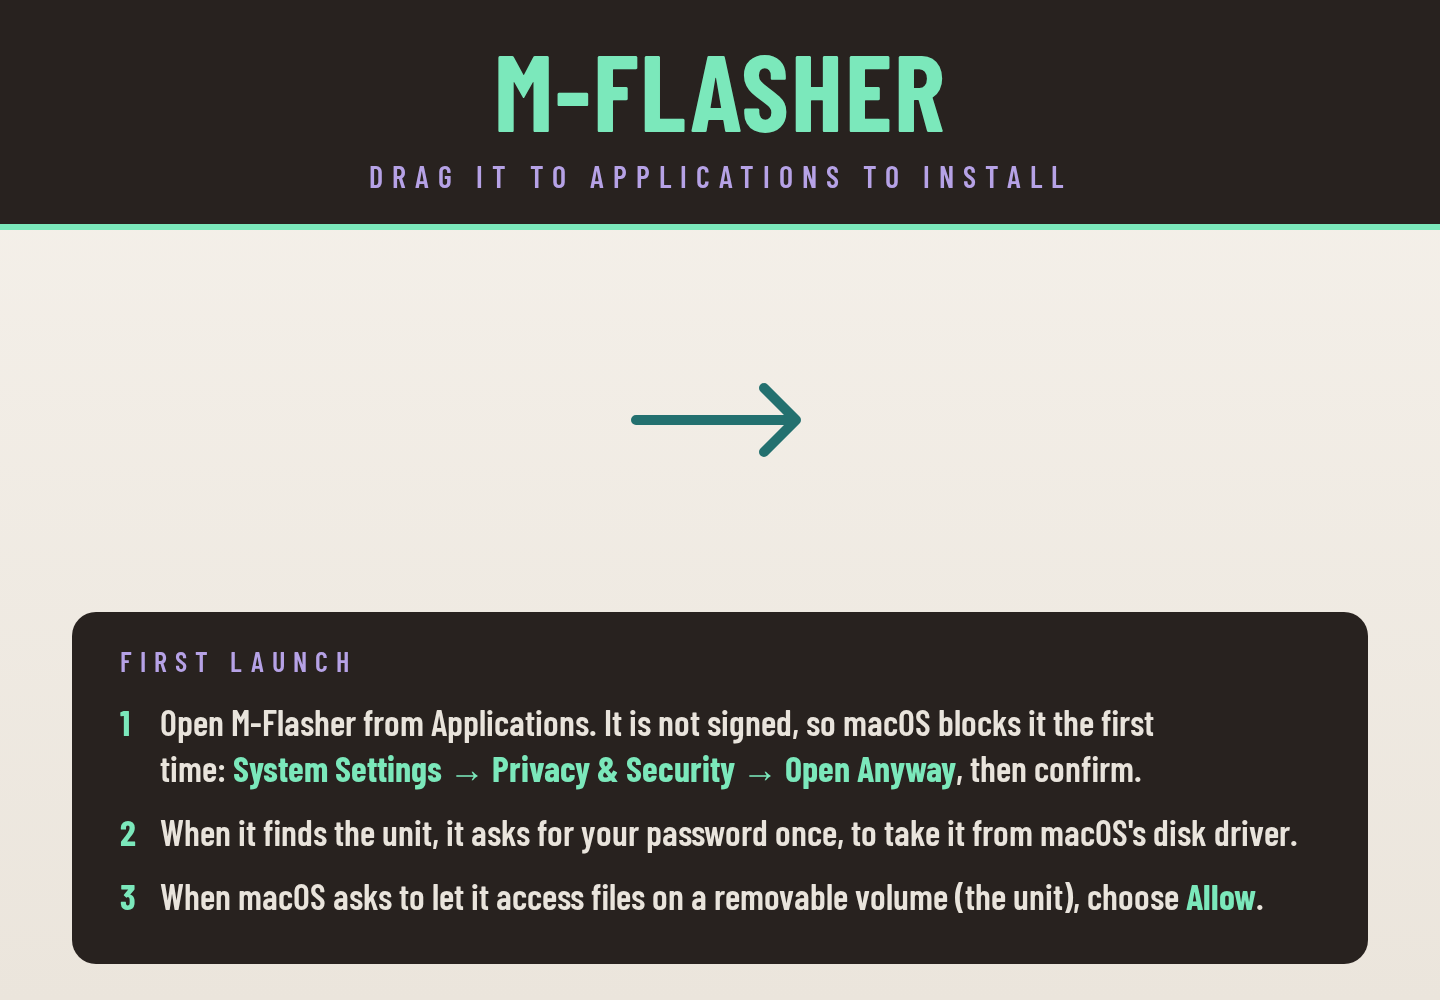
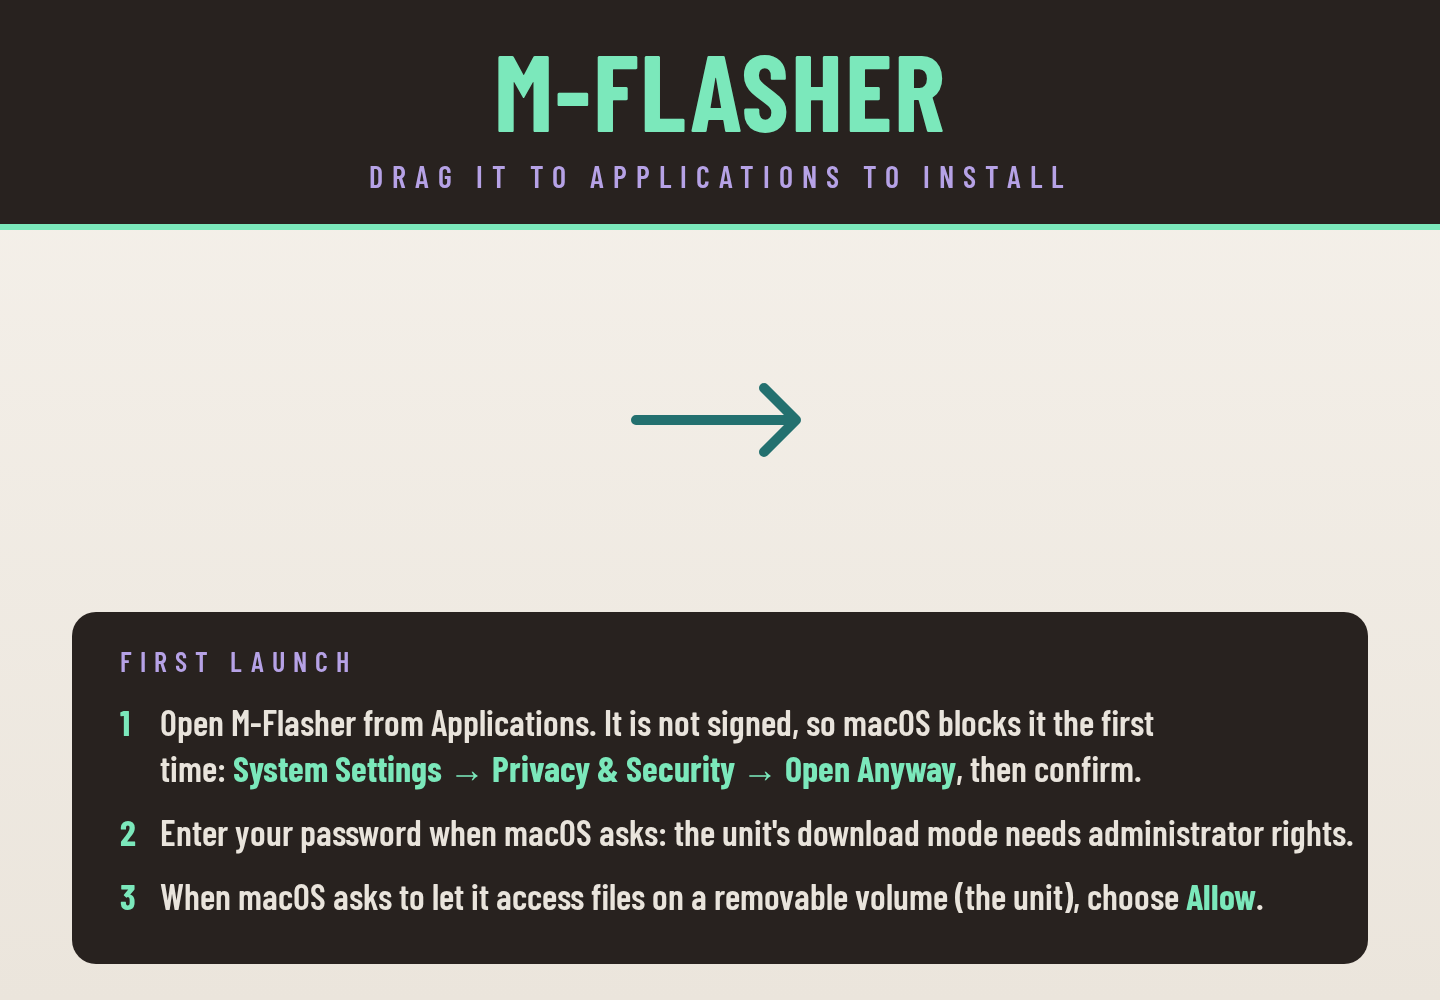
macOS: the window starts as root through the system's authorization dialog
Taking the unit from macOS's disk driver leaves it to root only, so the
user process cannot claim it after a root step: the window runs as root.
It starts again through AuthorizationExecuteWithPrivileges, which shows the
system's password dialog (no password box of our own, no sudo) and runs the
root step as a child of the app. That keeps the root window M-Flasher's, so
macOS asks to let it access the removable volume. Started through
osascript's administrator privileges, or "responsible for itself", it was
refused without asking.

Changed region(s): [[0.0938, 0.806, 0.9375, 0.868]]

diff --git a/src/macos.rs b/src/macos.rs
@@ -1,0 +1,143 @@
+//! macOS: the window runs as root. Only root may take the unit from macOS's
+//! disk driver, and after that only root may open it.
+//!
+//! Opened as a normal app, it asks for the password in the system's
+//! authorization dialog and runs one root step, which starts the window again
+//! as root. macOS lets that window use the unit only when it descends from a
+//! process of the user's (M-Flasher here, Terminal under sudo): then it asks the
+//! user, once, to let M-Flasher access the removable volume (the unit). A root
+//! process started any other way (osascript's administrator privileges, a
+//! launchd job, or one "responsible for itself") is refused without asking.
+//! AuthorizationExecuteWithPrivileges runs the root step as a child of this
+//! process; it is deprecated, but nothing newer does that.
+
+use std::ffi::{CString, c_char, c_void};
+use std::os::unix::ffi::OsStrExt;
+
+/// The root step: `M-Flasher --window-as-root UID GID USER HOME`.
+pub const WINDOW_AS_ROOT: &str = "--window-as-root";
+
+/// Not root: run the root step through the authorization dialog. True: this
+/// process is done (also when the dialog was cancelled).
+pub fn relaunch_as_root() -> bool {
+    // SAFETY: plain libc calls without arguments
+    let (euid, uid, gid) = unsafe { (libc::geteuid(), libc::getuid(), libc::getgid()) };
+    if euid == 0 {
+        return false;
+    }
+    let Ok(exe) = std::env::current_exe() else { return false };
+    let env = |k: &str| std::env::var(k).unwrap_or_default();
+    let args: Vec<CString> = [WINDOW_AS_ROOT.to_string(), uid.to_string(), gid.to_string(), env("USER"), env("HOME")]
+        .into_iter()
+        .filter_map(|a| CString::new(a).ok())
+        .collect();
+    let Ok(path) = CString::new(exe.as_os_str().as_bytes()) else { return false };
+    let mut argv: Vec<*const c_char> = args.iter().map(|a| a.as_ptr()).collect();
+    argv.push(std::ptr::null());
+    let prompt = c"M-Flasher needs administrator rights to reach the unit's USB download mode.";
+    // SAFETY: Security framework calls with initialised items; every pointer
+    // outlives the call it is passed to.
+    unsafe {
+        let mut auth = std::ptr::null_mut();
+        if AuthorizationCreate(std::ptr::null(), std::ptr::null(), 0, &mut auth) != 0 {
+            return true;
+        }
+        let mut right = AuthorizationItem {
+            name: c"system.privilege.admin".as_ptr(),
+            value_length: 0,
+            value: std::ptr::null_mut(),
+            flags: 0,
+        };
+        let rights = AuthorizationItemSet { count: 1, items: &mut right };
+        let mut prompt_item = AuthorizationItem {
+            name: c"prompt".as_ptr(),
+            value_length: prompt.to_bytes().len(),
+            value: prompt.as_ptr() as *mut c_void,
+            flags: 0,
+        };
+        let environment = AuthorizationItemSet { count: 1, items: &mut prompt_item };
+        // interaction allowed, extend rights, preauthorize
+        let flags = 1 | 2 | 16;
+        if AuthorizationCopyRights(auth, &rights, &environment, flags, std::ptr::null_mut()) == 0 {
+            let mut pipe: *mut libc::FILE = std::ptr::null_mut();
+            if AuthorizationExecuteWithPrivileges(auth, path.as_ptr(), 0, argv.as_ptr(), &mut pipe) == 0
+                && !pipe.is_null()
+            {
+                // the root step ends as soon as the window has started
+                let mut buf = [0u8; 256];
+                while libc::fread(buf.as_mut_ptr() as *mut c_void, 1, buf.len(), pipe) > 0 {}
+                libc::fclose(pipe);
+            }
+        }
+        AuthorizationFree(auth, 0);
+    }
+    true
+}
+
+#[repr(C)]
+struct AuthorizationItem {
+    name: *const c_char,
+    value_length: usize,
+    value: *mut c_void,
+    flags: u32,
+}
+
+#[repr(C)]
+struct AuthorizationItemSet {
+    count: u32,
+    items: *mut AuthorizationItem,
+}
+
+#[link(name = "Security", kind = "framework")]
+unsafe extern "C" {
+    fn AuthorizationCreate(rights: *const AuthorizationItemSet, environment: *const AuthorizationItemSet,
+                           flags: u32, authorization: *mut *mut c_void) -> i32;
+    fn AuthorizationCopyRights(authorization: *mut c_void, rights: *const AuthorizationItemSet,
+                               environment: *const AuthorizationItemSet, flags: u32,
+                               authorized: *mut *mut AuthorizationItemSet) -> i32;
+    fn AuthorizationExecuteWithPrivileges(authorization: *mut c_void, path: *const c_char, options: u32,
+                                          arguments: *const *const c_char, pipe: *mut *mut libc::FILE) -> i32;
+    fn AuthorizationFree(authorization: *mut c_void, flags: u32) -> i32;
+}
+
+/// As root: start the window (this executable, no arguments) as root, in its
+/// own session, with the user's home and
+/// SUDO_UID/GID/USER (so the files it creates belong to the user); returns at
+/// once. The exit code for the root step.
+pub fn start_window(args: &[String]) -> i32 {
+    let [uid, gid, user, home] = args else { return 2 };
+    let Ok(exe) = std::env::current_exe() else { return 1 };
+    let ours = ["HOME", "USER", "SUDO_UID", "SUDO_GID", "SUDO_USER"];
+    let mut env: Vec<CString> = std::env::vars()
+        .filter(|(k, _)| !ours.contains(&k.as_str()))
+        .filter_map(|(k, v)| CString::new(format!("{k}={v}")).ok())
+        .collect();
+    for (k, v) in ours.iter().zip([home, user, uid, gid, user]) {
+        env.extend(CString::new(format!("{k}={v}")));
+    }
+    let Ok(path) = CString::new(exe.as_os_str().as_bytes()) else { return 1 };
+    let argv = [path.as_ptr() as *mut c_char, std::ptr::null_mut()];
+    let mut envp: Vec<*mut c_char> = env.iter().map(|e| e.as_ptr() as *mut c_char).collect();
+    envp.push(std::ptr::null_mut());
+    // SAFETY: the attributes and file actions are initialised before use and
+    // destroyed after; every pointer handed to posix_spawn outlives the call.
+    unsafe {
+        let mut attr: libc::posix_spawnattr_t = std::ptr::null_mut();
+        libc::posix_spawnattr_init(&mut attr);
+        libc::posix_spawnattr_setflags(&mut attr, POSIX_SPAWN_SETSID);
+        let mut files: libc::posix_spawn_file_actions_t = std::ptr::null_mut();
+        libc::posix_spawn_file_actions_init(&mut files);
+        for fd in 0..3 {
+            let mode = if fd == 0 { libc::O_RDONLY } else { libc::O_WRONLY };
+            libc::posix_spawn_file_actions_addopen(&mut files, fd, c"/dev/null".as_ptr(), mode, 0);
+        }
+        let mut pid = 0;
+        let r = libc::posix_spawn(&mut pid, path.as_ptr(), &files, &attr, argv.as_ptr(), envp.as_ptr());
+        libc::posix_spawn_file_actions_destroy(&mut files);
+        libc::posix_spawnattr_destroy(&mut attr);
+        if r == 0 { 0 } else { 1 }
+    }
+}
+
+/// posix_spawn: start the child in a new session (<spawn.h>).
+const POSIX_SPAWN_SETSID: libc::c_short = 0x0400;

diff --git a/src/usb.rs b/src/usb.rs
@@ -69,56 +69,8 @@ fn find(path: &str) -> Result<(rusb::Device<GlobalContext>, u8, u8, u8), ScsiErr
     Err(ScsiError::Failed(format!("{path}: no USB mass-storage interface")))
 }
 
-/// macOS, as root: take the unit from the disk driver and leave it without
-/// one (until it is unplugged), for a normal process to claim. The app runs
-/// this through the system's authorization dialog (`--take-unit PATH`).
-#[cfg(target_os = "macos")]
-pub fn take_from_disk_driver(path: &str) -> Result<(), ScsiError> {
-    let (dev, iface, _, _) = find(path)?;
-    let handle = dev.open().map_err(|e| failed("cannot open the unit", e))?;
-    handle.detach_kernel_driver(iface).map_err(|e| match e {
-        rusb::Error::Access => needs_root(e),
-        e => failed("cannot take the unit from the system's USB disk driver", e),
-    })
-}
-
-/// macOS, not root: take_from_disk_driver as root, after the system's
-/// authorization dialog (password or Touch ID).
-#[cfg(target_os = "macos")]
-fn take_with_authorization(path: &str) -> Result<(), ScsiError> {
-    let exe = std::env::current_exe().map_err(|e| ScsiError::Failed(e.to_string()))?;
-    let sh = |s: &str| format!("'{}'", s.replace('\'', "'\\''"));
-    let cmd = format!("{} --take-unit {}", sh(&exe.to_string_lossy()), sh(path));
-    let script = format!(
-        "do shell script \"{}\" with prompt \"M-Flasher needs to take the unit from macOS's disk driver.\" \
-         with administrator privileges",
-        cmd.replace('\\', "\\\\").replace('"', "\\\"")
-    );
-    let ok = std::process::Command::new("osascript").args(["-e", &script]).status().is_ok_and(|s| s.success());
-    if ok {
-        Ok(())
-    } else {
-        Err(ScsiError::NeedsAdmin(
-            "macOS's disk driver holds the unit: M-Flasher needs an administrator's permission to take it".into(),
-        ))
-    }
-}
-
 impl Device {
     pub fn open(path: &str) -> Result<Device, ScsiError> {
-        match Self::claim(path) {
-            // macOS, a normal process: root takes the unit from the disk
-            // driver, then this process claims it
-            #[cfg(target_os = "macos")]
-            Err(ScsiError::NeedsAdmin(_)) if !is_root() => {
-                take_with_authorization(path)?;
-                Self::claim(path)
-            }
-            r => r,
-        }
-    }
-
-    fn claim(path: &str) -> Result<Device, ScsiError> {
         let (dev, iface, ep_in, ep_out) = find(path)?;
         let handle = dev.open().map_err(|e| match e {
             rusb::Error::Access => needs_root(e),
@@ -138,7 +90,7 @@ impl Device {
         // driver is attached). Root can take the whole device from it.
         if claimed.is_err() && cfg!(target_os = "macos") {
             if !is_root() {
-                return Err(ScsiError::NeedsAdmin("macOS's disk driver holds the unit".into()));
+                return Err(ScsiError::NeedsAdmin("macOS's disk driver holds the unit: run M-Flasher with sudo".into()));
             }
             handle.detach_kernel_driver(iface).map_err(|e| failed("cannot take the unit from macOS's disk driver", e))?;
             // after a capture macOS takes a moment to offer the interface again
@@ -154,8 +106,8 @@ impl Device {
             rusb::Error::Access | rusb::Error::Busy => needs_root(e),
             e if cfg!(target_os = "macos") => ScsiError::Failed(format!(
                 "macOS did not let M-Flasher use the unit ({e}). It asks once to allow access to files on \
-                 a removable volume: if that was refused, allow it in System Settings → Privacy & Security \
-                 → Files & Folders. (Over SSH macOS cannot ask.)"
+                 a removable volume: if that was refused, allow it in System Settings > Privacy & Security \
+                 > Files & Folders. (Over SSH macOS cannot ask.)"
             )),
             e => failed("cannot take the unit's USB interface", e),
         })?;

diff --git a/src/main.rs b/src/main.rs
@@ -10,6 +10,8 @@ mod cli;
 mod controller;
 mod formats;
 mod jl;
+#[cfg(target_os = "macos")]
+mod macos;
 mod ops;
 mod scsi;
 mod sectormap;
@@ -19,16 +21,9 @@ mod ui;
 
 fn main() {
     let args: Vec<String> = std::env::args().skip(1).collect();
-    // macOS: the root step the app runs through the authorization dialog
     #[cfg(target_os = "macos")]
-    if args.len() == 2 && args[0] == "--take-unit" {
-        std::process::exit(match scsi::take_from_disk_driver(&args[1]) {
-            Ok(()) => 0,
-            Err(e) => {
-                eprintln!("{e}");
-                1
-            }
-        });
+    if args.first().map(String::as_str) == Some(macos::WINDOW_AS_ROOT) {
+        std::process::exit(macos::start_window(&args[1..]));
     }
     if !args.is_empty() {
         #[cfg(windows)]
@@ -37,6 +32,10 @@ fn main() {
             windows_sys::Win32::System::Console::AttachConsole(windows_sys::Win32::System::Console::ATTACH_PARENT_PROCESS);
         }
         std::process::exit(cli::run(args));
+    }
+    #[cfg(target_os = "macos")]
+    if macos::relaunch_as_root() {
+        return;
     }
     if let Err(e) = ui::run() {
         eprintln!("cannot open the window: {e}");

diff --git a/src/ui.rs b/src/ui.rs
@@ -289,7 +289,7 @@ impl eframe::App for App {
                     ("Then", "connect USB: a data cable, no hub"),
                 ];
                 if cfg!(target_os = "macos") {
-                    rows.push(("macOS asks about a removable volume?", "choose Allow: that is the unit"));
+                    rows.push(("Removable volume prompt", "choose Allow: that is the unit"));
                 }
                 for (i, (a, b)) in rows.iter().enumerate() {
                     let y = 662.0 + i as f32 * 25.0;

diff --git a/src/scsi.rs b/src/scsi.rs
@@ -361,5 +361,3 @@ mod imp {
 }
 
 pub use imp::{Device, find_devices};
-#[cfg(target_os = "macos")]
-pub use imp::take_from_disk_driver;

diff --git a/README.md b/README.md
@@ -120,10 +120,11 @@ is not signed with an Apple certificate, so the first time macOS blocks it:
 
 macOS does not pass the download mode's SCSI commands through, so M-Flasher
 takes the unit from the system's disk driver and talks USB mass storage
-itself (libusb). Only root may take a device from its driver: when the app
-finds the unit it asks for your password (the system's dialog) and does just
-that, then works with the unit as you. macOS asks once to let it access files
-on a removable volume (the unit): choose **Allow**. Start it soon after connecting
+itself (libusb). Only root may take a device from its driver, so the window
+runs as root: the app asks for your password in the system's dialog and starts
+again (`AuthorizationExecuteWithPrivileges`, so that the root window still
+counts as M-Flasher's, see `src/macos.rs`). macOS asks once to let M-Flasher
+access files on a removable volume (the unit): choose **Allow**. Start it soon after connecting
 the unit: left with macOS's disk driver, the unit may leave download mode
 after about half a minute. Backups go to `~/Documents/M-Flasher/backups` and
 belong to you, not root. The command line is inside the app:
